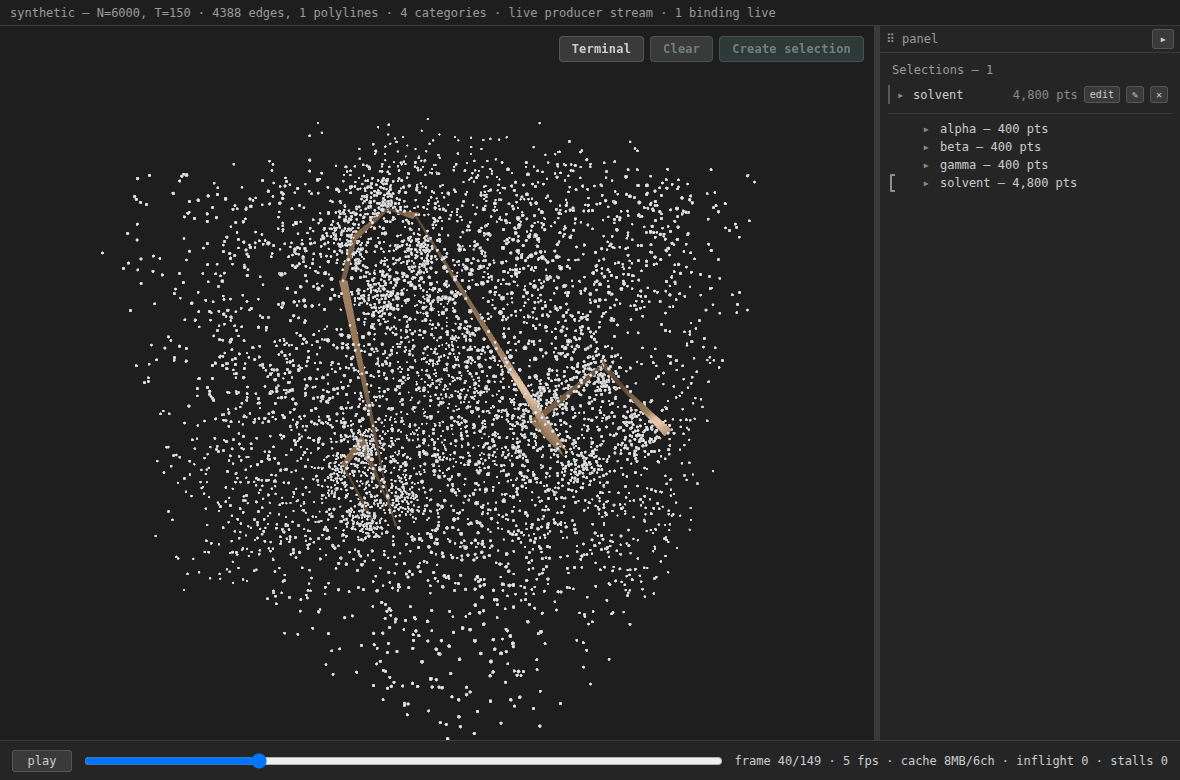
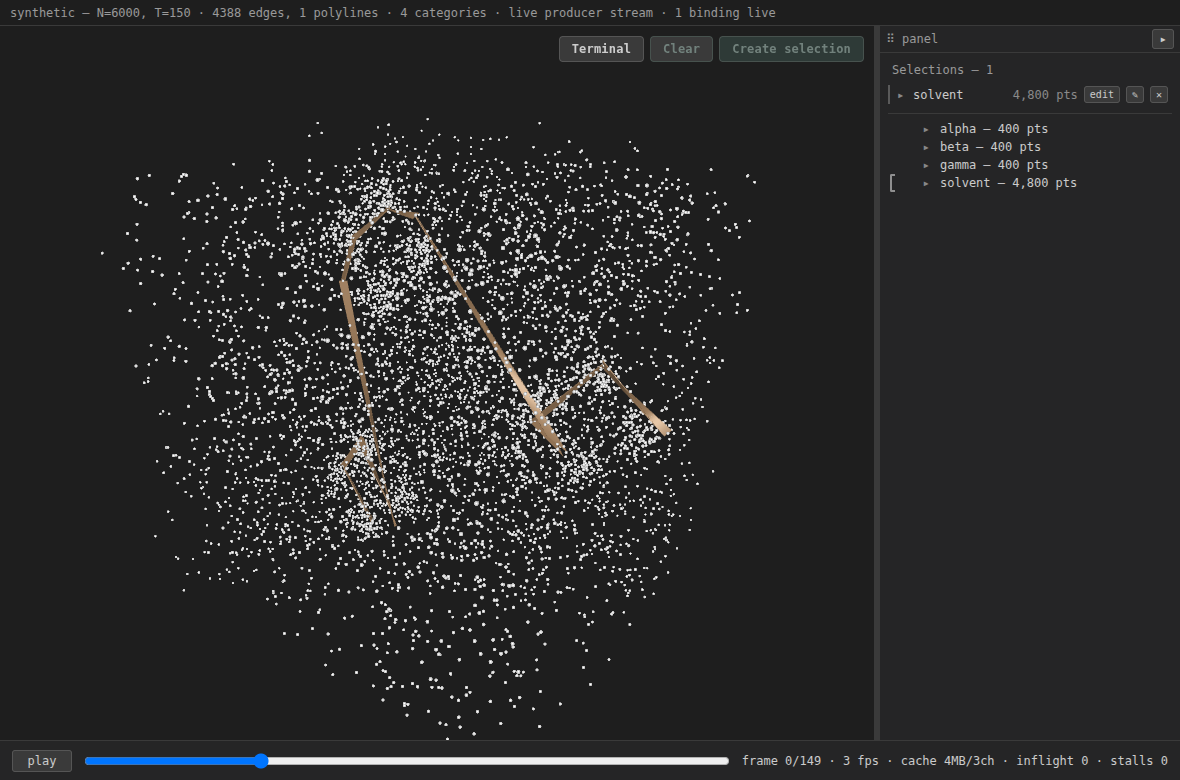
ribbon: per-face normals, paid for by packing width and visibility together
The box shaded with ONE normal because the pass sat at its 14-attribute ceiling and
aFace had nowhere to go. Adding it drew zero pixels with nothing reporting why. This
buys the slot rather than working around it.

THE PACKING. iWidthA + iWidthB + iVisible were three of the fourteen slots;
visibility now rides the SIGN of each end's width, so they collapse into one vec2 and
free two. No precision is lost - the sign bit was unused because a width is never
negative.

THE INVARIANT LIVES WITH THE PACKING, not with the thing that happens to guarantee
it. The encoding works only while widths are non-negative, which today is true
because parseSize clamps - in a different file, for unrelated reasons. Two things
that must agree in different places is the shape this project keeps paying for, and
here it would fail SILENTLY: a negative width reads as "hidden" and the band vanishes
with no message. So packRibbonWidth refuses the input instead of trusting the clamp
to stay put, and tests/geometry.test.ts pins it - including NaN, which `!(x >= 0)`
catches and `x < 0` does not.

One lossy case, recorded because it is the only one: a hidden end of width exactly 0
packs to -0 and reads back as visible. A zero width already draws nothing, so the
picture is identical either way.

Both fills write the same packed array, so each preserves the other's half - widths
re-apply the current visibility, visibility re-applies the current magnitude. Neither
can clobber the other by running second.
[…]

diff --git a/webview/main.ts b/webview/main.ts
@@ -68,6 +68,7 @@ import {
   NO_BBOX_WARNING,
   sceneExtent,
   traceSegments,
+  packRibbonWidth,
   worldPerSizeUnit,
   type Box3Like,
 } from "./geometry.ts";
@@ -933,29 +934,52 @@ const traceRibbonsGenerator: ShapeGenerator<RibbonPass> = {
     if (seg.count === 0) return null;
     const geo = new THREE.InstancedBufferGeometry();
     geo.instanceCount = seg.count;
-    // THIN BOX CROSS-SECTION as base geometry: 8 corners, not 4. Thickness is
+    // THIN BOX CROSS-SECTION as base geometry: 16 corners, not 8. Thickness is
     // per-vertex geometry — the instance count is untouched and slot ≡ header
     // order still holds, because a thicker band is more corners per segment, not
     // more segments. aCorner = (side across, end along, offset through thickness).
-    const corner: number[] = [];
-    for (const z of [-1, 1]) for (const end of [0, 1]) for (const x of [-1, 1]) corner.push(x, end, z);
-    // v index = z*4 + end*2 + side.  Four faces, ends left open (a ribbon is a
-    // strip; a cap would need its own normal and buys nothing at these widths).
-    const quad = (a: number, b: number, c: number, d: number) => [a, c, b, b, c, d];
-    const index = [
-      ...quad(4, 5, 6, 7),   // +thickness broad face
-      ...quad(0, 1, 2, 3),   // -thickness broad face
-      ...quad(1, 5, 3, 7),   // +across edge
-      ...quad(0, 4, 2, 6),   // -across edge
+    //
+    // SIXTEEN rather than eight so each of the four faces carries its OWN normal.
+    // Eight shared corners force one averaged normal per corner, and the edges then
+    // light exactly like the faces — which throws away the only thing the thickness
+    // buys. The slot for aFace was bought by packing width and visibility together;
+    // this pass sat at the 14-attribute ceiling before that, and the 16-corner
+    // version drew ZERO pixels with nothing reporting why.
+    const FACES: { z: [number, number]; x: [number, number]; face: number }[] = [
+      { z: [1, 1], x: [-1, 1], face: 0 },    // +normal broad face
+      { z: [-1, -1], x: [-1, 1], face: 1 },  // -normal broad face
+      { z: [-1, 1], x: [1, 1], face: 2 },    // +across edge
+      { z: [-1, 1], x: [-1, -1], face: 3 },  // -across edge
     ];
-    geo.setAttribute("position", new THREE.Float32BufferAttribute(new Float32Array(8 * 3), 3));
+    const corner: number[] = [];
+    const faceId: number[] = [];
+    const index: number[] = [];
+    for (const f of FACES) {
+      const base = corner.length / 3;
+      for (const end of [0, 1]) {
+        for (let u = 0; u < 2; u++) {
+          corner.push(
+            f.x[0] === f.x[1] ? f.x[0] : (u === 0 ? -1 : 1),
+            end,
+            f.z[0] === f.z[1] ? f.z[0] : (u === 0 ? -1 : 1),
+          );
+          faceId.push(f.face);
+        }
+      }
+      index.push(base, base + 2, base + 1, base + 1, base + 2, base + 3);
+    }
+    geo.setAttribute("position", new THREE.Float32BufferAttribute(new Float32Array(16 * 3), 3));
     geo.setAttribute("aCorner", new THREE.Float32BufferAttribute(corner, 3));
+    geo.setAttribute("aFace", new THREE.Float32BufferAttribute(faceId, 1));
     geo.setIndex(index);
     const iStart = new THREE.InstancedBufferAttribute(new Float32Array(seg.count * 3), 3);
     const iEnd = new THREE.InstancedBufferAttribute(new Float32Array(seg.count * 3), 3);
-    const iVisible = new THREE.InstancedBufferAttribute(new Float32Array(seg.count).fill(1), 1);
-    const iWidthA = new THREE.InstancedBufferAttribute(new Float32Array(seg.count), 1);
-    const iWidthB = new THREE.InstancedBufferAttribute(new Float32Array(seg.count), 1);
+    // WIDTH AND VISIBILITY IN ONE ATTRIBUTE. iWidthA + iWidthB + iVisible were
+    // three of the fourteen slots this pass is allowed; visibility rides the SIGN
+    // of each end's width (packRibbonWidth owns that invariant), which frees two
+    // and leaves room for the per-face normal. No precision is lost — the sign bit
+    // was unused because a width is never negative.
+    const iWidth = new THREE.InstancedBufferAttribute(new Float32Array(seg.count * 2), 2);
     const iColorA = new THREE.InstancedBufferAttribute(new Float32Array(seg.count * 4), 4);
     const iColorB = new THREE.InstancedBufferAttribute(new Float32Array(seg.count * 4), 4);
     const iAcrossA = new THREE.InstancedBufferAttribute(new Float32Array(seg.count * 3), 3);
@@ -967,14 +991,12 @@ const traceRibbonsGenerator: ShapeGenerator<RibbonPass> = {
     const iPrevPoint = new THREE.InstancedBufferAttribute(new Float32Array(seg.count * 3), 3);
     const iNextPoint = new THREE.InstancedBufferAttribute(new Float32Array(seg.count * 3), 3);
     const iStyle = new THREE.InstancedBufferAttribute(new Float32Array(seg.count), 1);
-    for (const a of [iStart, iEnd, iVisible, iWidthA, iWidthB, iColorA, iColorB, iAcrossA, iAcrossB, iPrevPoint, iNextPoint, iStyle]) {
+    for (const a of [iStart, iEnd, iWidth, iColorA, iColorB, iAcrossA, iAcrossB, iPrevPoint, iNextPoint, iStyle]) {
       a.setUsage(THREE.DynamicDrawUsage);
     }
     geo.setAttribute("iStart", iStart);
     geo.setAttribute("iEnd", iEnd);
-    geo.setAttribute("iVisible", iVisible);
-    geo.setAttribute("iWidthA", iWidthA);
-    geo.setAttribute("iWidthB", iWidthB);
+    geo.setAttribute("iWidth", iWidth);
     geo.setAttribute("iColorA", iColorA);
     geo.setAttribute("iColorB", iColorB);
     geo.setAttribute("iAcrossA", iAcrossA);
@@ -1041,17 +1063,22 @@ const traceRibbonsGenerator: ShapeGenerator<RibbonPass> = {
       iColorA.needsUpdate = true;
       iColorB.needsUpdate = true;
     };
+    // Both fills write the SAME packed array, so each has to preserve the other's
+    // half: widths re-apply the current visibility, visibility re-applies the
+    // current magnitude. Neither can clobber the other by running second.
+    const segVisible = (k: number): boolean =>
+      visible[seg.pointA[k]] > 0.5 && visible[seg.pointB[k]] > 0.5;
     const fillWidths = (ids?: readonly number[]): void => {
       const ts = rep.state.traceSize;
-      const wA = iWidthA.array as Float32Array;
-      const wB = iWidthB.array as Float32Array;
+      const w = iWidth.array as Float32Array;
       const write = (v: number): void => {
-        for (const e of endsOfVertex[v]) (e.b ? wB : wA)[e.k] = ts[v];
+        for (const e of endsOfVertex[v]) {
+          w[e.k * 2 + (e.b ? 1 : 0)] = packRibbonWidth(ts[v], segVisible(e.k));
+        }
       };
       if (ids) for (const v of ids) write(v);
       else for (let v = 0; v < env.traceVertices.length; v++) write(v);
-      iWidthA.needsUpdate = true;
-      iWidthB.needsUpdate = true;
+      iWidth.needsUpdate = true;
     };
     const fillAcross = (ids?: readonly number[]): void => {
       const ori = rep.state.orientation;
@@ -1083,11 +1110,13 @@ const traceRibbonsGenerator: ShapeGenerator<RibbonPass> = {
       iStyle.needsUpdate = true;
     };
     const fillVisibility = (): void => {
-      const vis = iVisible.array as Float32Array;
+      const w = iWidth.array as Float32Array;
       for (let k = 0; k < seg.count; k++) {
-        vis[k] = visible[seg.pointA[k]] > 0.5 && visible[seg.pointB[k]] > 0.5 ? 1 : 0;
+        const vis = segVisible(k);
+        w[k * 2] = packRibbonWidth(Math.abs(w[k * 2]), vis);
+        w[k * 2 + 1] = packRibbonWidth(Math.abs(w[k * 2 + 1]), vis);
       }
-      iVisible.needsUpdate = true;
+      iWidth.needsUpdate = true;
     };
     const sh = ribbonShaders();
     const material = new THREE.ShaderMaterial({
@@ -1129,7 +1158,7 @@ const traceRibbonsGenerator: ShapeGenerator<RibbonPass> = {
       attrVersions: () => ({
         start: iStart.version,
         across: iAcrossA.version,
-        width: iWidthA.version,
+        width: iWidth.version,
         color: iColorA.version,
       }),
     };

diff --git a/webview/geometry.ts b/webview/geometry.ts
@@ -151,3 +151,40 @@ export function computeBounds(positions: Float32Array): Box3Like {
   }
   return { min, max };
 }
+
+/**
+ * Pack a ribbon end's WIDTH and its instance's VISIBILITY into one float.
+ *
+ * The ribbon's vertex-attribute budget is 14 and it used all 14, so per-face
+ * normals had nowhere to go. `iWidthA`, `iWidthB` and `iVisible` collapse into one
+ * `vec2` by riding visibility on the sign of the magnitude — three attributes into
+ * one, two slots freed, no precision lost.
+ *
+ * THE INVARIANT LIVES HERE, not in whatever produced the number. The encoding only
+ * works because a width is never negative — today `parseSize` clamps negatives to
+ * zero, in a different file, for reasons that have nothing to do with this packing.
+ * Two things that must agree, in different places, is the shape this project has
+ * paid for repeatedly, and it fails SILENTLY here: a negative width would read as
+ * "hidden" and the band would vanish with nothing reporting why. So the packer
+ * refuses the input rather than trusting the clamp to stay put.
+ *
+ * The one ambiguous case is benign by construction: a hidden end whose width is
+ * exactly 0 packs to -0, which reads back as visible — and a zero width already
+ * draws nothing, so the picture is identical either way.
+ */
+export function packRibbonWidth(magnitude: number, visible: boolean): number {
+  if (!(magnitude >= 0)) {
+    // NaN included — `!(x >= 0)` catches it where `x < 0` would not.
+    throw new RangeError(
+      `ribbon width must be non-negative to pack visibility into its sign (got ${magnitude}). ` +
+      "The sign is the visibility bit; a negative magnitude would silently hide the band.",
+    );
+  }
+  return visible ? magnitude : -magnitude;
+}
+
+/** Read back what packRibbonWidth wrote — the shader does the same two operations
+ * (abs for the width, sign test for visibility), so this is what the tests pin. */
+export function unpackRibbonWidth(packed: number): { magnitude: number; visible: boolean } {
+  return { magnitude: Math.abs(packed), visible: !(packed < 0) };
+}

diff --git a/tests/geometry.test.ts b/tests/geometry.test.ts
@@ -21,6 +21,8 @@ import {
   sceneExtent,
   traceSegments,
   worldPerSizeUnit,
+  packRibbonWidth,
+  unpackRibbonWidth,
 } from "../webview/geometry.ts";
 import { decodeFrameChunk, parseHeader, validateFrameChunk } from "../contract/contract.ts";
 
@@ -149,4 +151,36 @@ test("worldPerSizeUnit: the pixel-parity formula, pinned", () => {
   assert.ok(Math.abs(k - 0.03387) < 1e-4, `k on the reference data (${k})`);
   // linear in S: doubling the scene doubles world radii, pixels stay put
   assert.ok(Math.abs(worldPerSizeUnit(2 * S) - 2 * k) < 1e-12);
+});
+
+// -- the ribbon width/visibility packing ---------------------------------------
+//
+// Three attributes became one so per-face normals had a slot. The encoding rides
+// visibility on the sign of the width, which only works while widths are
+// non-negative — a property guaranteed today by parseSize's clamp, in a different
+// file, for unrelated reasons. These pin the packing's own end of that bargain.
+
+test("packRibbonWidth: a visible end keeps its magnitude, a hidden one is negated", () => {
+  assert.equal(packRibbonWidth(3, true), 3);
+  assert.equal(packRibbonWidth(3, false), -3);
+  assert.deepEqual(unpackRibbonWidth(packRibbonWidth(7.5, true)), { magnitude: 7.5, visible: true });
+  assert.deepEqual(unpackRibbonWidth(packRibbonWidth(7.5, false)), { magnitude: 7.5, visible: false });
+});
+
+test("packRibbonWidth REFUSES a negative width rather than silently hiding the band", () => {
+  // The failure this prevents: a negative magnitude packs to a positive number with
+  // the visibility bit inverted, so the band vanishes and nothing says why.
+  assert.throws(() => packRibbonWidth(-1, true), /non-negative/);
+  assert.throws(() => packRibbonWidth(-0.001, false), /non-negative/);
+  assert.throws(() => packRibbonWidth(Number.NaN, true), /non-negative/,
+    "NaN too — `!(x >= 0)` catches what `x < 0` misses");
+});
+
+test("packRibbonWidth: a hidden ZERO width is ambiguous and harmlessly so", () => {
+  // -0 reads back as visible. A zero width already draws nothing, so both readings
+  // produce the same picture — recorded because it is the one lossy case.
+  const packed = packRibbonWidth(0, false);
+  assert.equal(Object.is(packed, -0), true, "the sign is there…");
+  assert.equal(unpackRibbonWidth(packed).visible, true, "…but reads back as visible");
+  assert.equal(unpackRibbonWidth(packed).magnitude, 0, "and zero width draws nothing either way");
 });

diff --git a/webview/shaders.ts b/webview/shaders.ts
@@ -438,9 +438,13 @@ export function ribbonShaders(): { vertex: string; fragment: string } {
       // RIBBON static per-corner: x = side (-1 | +1 across width), y = end (0 | 1),
       // z = offset through the thickness (-1 | +1)
       attribute vec3 aCorner;
+      // which of the box's four faces this corner belongs to, so each shades with
+      // its own normal: 0 = +normal, 1 = -normal, 2 = +across edge, 3 = -across
+      attribute float aFace;
       attribute vec3 iStart; attribute vec3 iEnd;
-      attribute float iVisible;
-      attribute float iWidthA; attribute float iWidthB;
+      // width AND visibility: |x| is end A's width, |y| is end B's, and a NEGATIVE
+      // component means the instance is hidden (packRibbonWidth owns the encoding).
+      attribute vec2 iWidth;
       attribute vec4 iColorA; attribute vec4 iColorB;
       attribute vec3 iAcrossA; attribute vec3 iAcrossB;
       attribute vec3 iPrevPoint; attribute vec3 iNextPoint;
@@ -451,13 +455,14 @@ export function ribbonShaders(): { vertex: string; fragment: string } {
       varying vec3 vNormal;
       void main() {
         vStyleParams = styleParams(iStyle);
-        float wA = uWorldPerSize * iWidthA;
-        float wB = uWorldPerSize * iWidthB;
+        bool shown = iWidth.x >= 0.0 && iWidth.y >= 0.0;
+        float wA = uWorldPerSize * abs(iWidth.x);
+        float wB = uWorldPerSize * abs(iWidth.y);
         vec3 mvA = (modelViewMatrix * vec4(iStart, 1.0)).xyz;
         vec3 mvB = (modelViewMatrix * vec4(iEnd, 1.0)).xyz;
         vec3 seg = mvB - mvA;
         float len = length(seg);
-        if (iVisible < 0.5 || len * len < 1e-16 || max(wA, wB) <= 0.0) {
+        if (!shown || len * len < 1e-16 || max(wA, wB) <= 0.0) {
           gl_Position = vec4(2.0, 2.0, 2.0, 1.0);
           vColor = vec4(0.0); vNormal = vec3(0.0, 0.0, 1.0);
           return;
@@ -511,11 +516,13 @@ export function ribbonShaders(): { vertex: string; fragment: string } {
         // Per-face normal: the two broad faces look along ±nrm, the two edges
         // along ±across. Averaging one normal across all of them would light the
         // edges as if they were the face and lose the thickness cue entirely.
-        // One normal for the whole box rather than per face. Correct on the two
-        // broad faces, which are what you see; the edges shade as if they were
-        // face, which at 15% of the width is a sliver. A per-face normal needs a
-        // 15th vertex attribute and this shader is already at 14.
-        vNormal = nrm;
+        // PER-FACE NORMAL. The two broad faces look along ±nrm; the two edges look
+        // along ±across, so a glancing view catches the edge as an edge instead of
+        // lighting it like the face it is not. This is what the packed width bought.
+        vNormal = aFace < 0.5 ? nrm
+                : aFace < 1.5 ? -nrm
+                : aFace < 2.5 ? across
+                : -across;
         gl_Position = projectionMatrix * vec4(pos, 1.0);
       }`,
     fragment: `